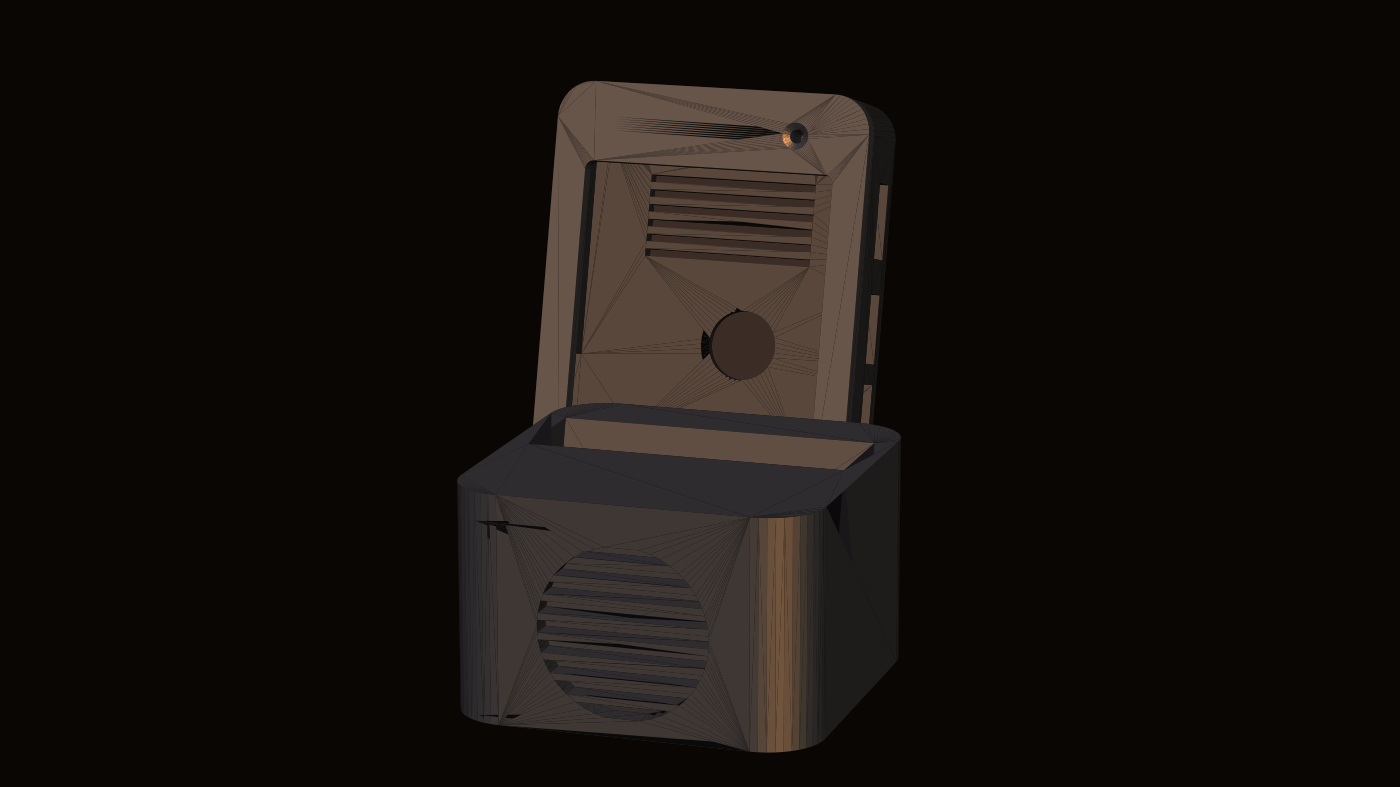
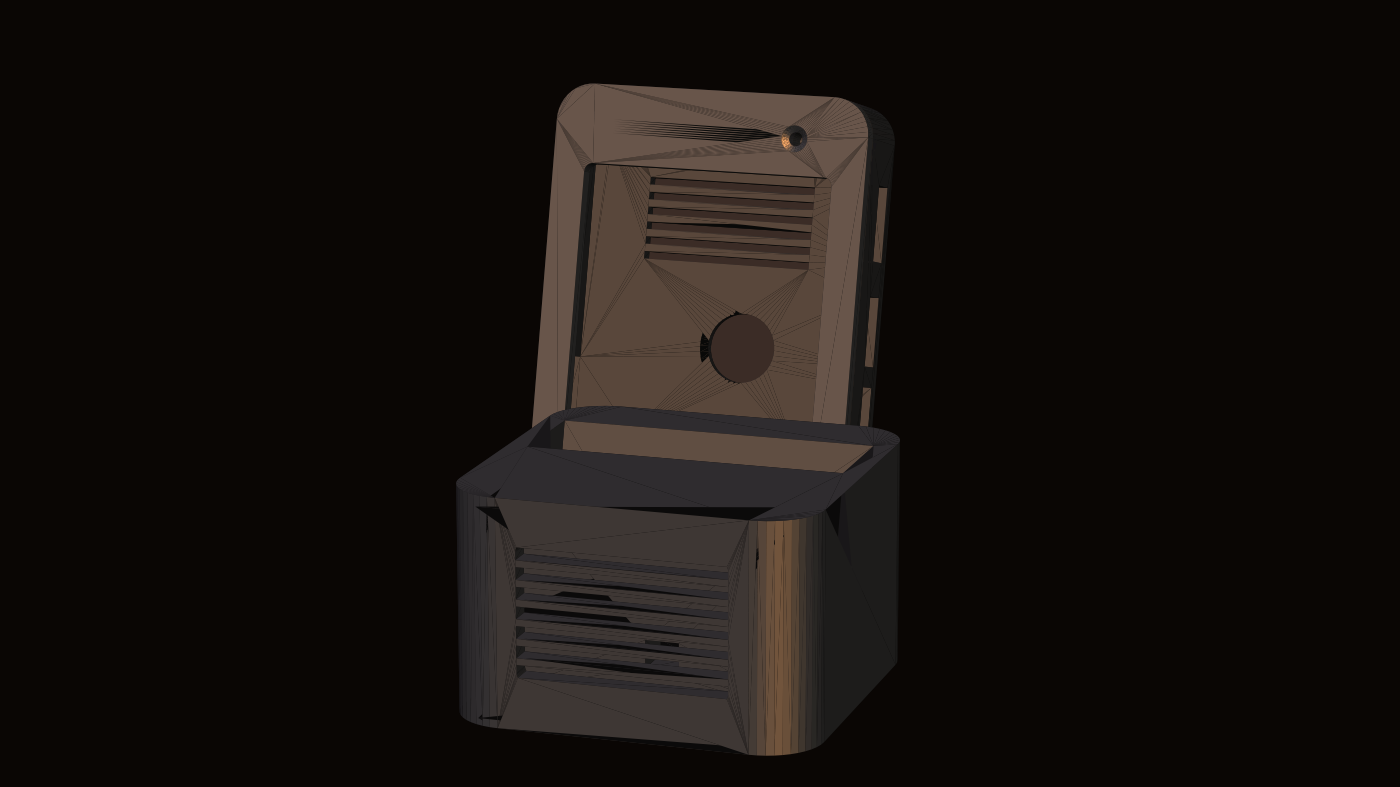
fix(enclosure): the real speaker is a taped 40x27 rectangle, and its wires had no exit
Two corrections from JP looking at the actual hardware. Both invalidate
assumptions the model could not have caught, and one of them was a hole
in the design rather than a wrong dimension.

1. THE DRIVER IS RECTANGULAR AND ADHESIVE-MOUNTED.

Cut for a round ⌀28 flanged driver seated in a ⌀29 x 2.2mm recess. It is
actually a 40 x 27mm rounded rectangle held on with sticky tape, which
inverts two requirements:

- The grille field becomes rectangular. Slots are now clipped to a
  37 x 24 rounded rect (GRILLE_INSET 1.5mm inside the driver outline) so
  the grille never opens onto the frame — an open slot over the flange is
  a dust path into the chamber and vents the enclosure it is meant to
  seal.
- The recess had to GO. Tape needs a flat, continuous surface to bond to,
  and a pocket deep enough to seat a flange leaves the adhesive bridging
  a step, which is where an adhesive bond fails first. The wall face is
  now flat, with only a 0.60 x 1.20mm locating lip around the outline:
  enough to stop the driver sliding while the glue grabs, too shallow to
  interrupt the bonded area.

The chamber ceiling went 34.0 -> 37.0. At 34 the chamber was 30mm tall
and a 27mm driver left 1.5mm a side — no room for anything. At 37 it is
33mm and the sealed volume goes 27.5 -> 30cm3, which helps the low end
rather than hurting it. No conflict with the slab slot: that sits at
y~34 while the chamber ends at 21, and 3mm of wall remains above.

2. THE SEALED CHAMBER HAD NO WIRE EXIT AT ALL.
[…]

diff --git a/docs/index.html b/docs/index.html
@@ -1137,8 +1137,9 @@ footer p{margin:.4rem 0}
               stand below.">
     <figcaption>
       From behind, because that is where the design decisions are. The stand is not a stand
-      with a speaker in it — it <em>is</em> the speaker enclosure, a sealed ~26&nbsp;cm³
-      chamber. The circular window is for an LED that fires backwards into a closed box.
+      with a speaker in it — it <em>is</em> the speaker enclosure, a sealed ~30&nbsp;cm³
+      chamber, and the base is its lid rather than a foot. The circular window is for an LED
+      that fires backwards into a closed box.
     </figcaption>
   </figure>
 
@@ -1153,7 +1154,7 @@ footer p{margin:.4rem 0}
     <div class="linework"><svg xmlns="http://www.w3.org/2000/svg" viewBox="0 0 1200.0 853.4" width="1200" height="853" fill="none" stroke="currentColor" stroke-linecap="round" stroke-linejoin="round" role="img">
 <path id="case-print-g0-vis" d="M33 426L33 768 M30 433L30 776 M33 426L33 425L33 424L33 423L33 422L33 421L33 420L34 419 M34 419L35 414L38 410L42 407L46 404L50 402L55 401L60 400L65 400 M30 433L30 433L30 432L31 431L31 430L31 429L31 428L31 427 M65 798L59 797L53 795L48 793L43 789L39 785L36 779L33 774L33 768 M63 806L57 805L51 803L46 800L41 797L37 792L33 787L31 782L30 776 M65 400L281 417 M65 798L281 815 M281 417L287 418L293 420L298 423L303 426L307 431L310 436L312 441L313 447 M313 790L313 790L313 791L313 792L313 793L313 794L313 795L312 795L312 796 M312 796L310 801L308 805L304 808L300 811L295 813L291 814L286 815L281 815 M313 447L313 790 M81 434L78 438L74 441L69 442L64 442L60 439L56 436L54 432L54 427 M291 451L289 455L285 458L280 459L275 458L271 456L267 453L265 448L265 443 M62 732L62 490 M62 732L62 734L62 735L63 736L64 737L65 738L66 739L68 739L69 739 M69 484L68 484L67 484L66 485L65 485L64 486L63 487L62 488L62 489 M62 489L62 489L62 490 M277 755L69 739 M277 501L69 484 M277 755L278 755L279 755L280 755L281 755L282 754L283 753L284 752L284 751 M284 751L284 751L284 750 M284 508L284 506L284 505L283 504L282 503L281 502L280 501L278 501L277 501 M284 750L284 508 M81 772L78 776L74 779L69 780L64 779L60 777L56 774L54 769L54 764 M260 784L258 788L254 790L250 791L245 791L241 789L238 785L236 781L236 777 M291 789L289 793L285 795L280 796L275 796L271 794L267 790L265 786L265 781 M63 806L279 823 M310 804L308 809L305 813L302 816L298 819L293 821L288 822L284 823L279 823 M67 492L66 492L65 492L64 492L63 493L62 493L62 494 M275 508L67 492 M282 515L282 514L281 513L281 512L280 511L279 510L277 509L276 509L275 508 M282 754L282 515 M85 419L85 420L85 421L84 421L84 422 M84 422L82 426L78 429L73 430L68 429L63 427L60 424L58 419L58 414 M58 414L60 410L64 408L68 406L73 407L77 408L81 411L84 415L85 419 M295 436L295 436L295 437L295 438 M295 438L293 443L288 445L284 446L279 446L274 444L271 440L269 436L269 431 M269 431L271 427L275 424L279 423L284 423L288 425L292 427L294 431L295 436 M85 757L85 757L85 758L85 759L84 759L84 760 M84 760L82 764L78 767L73 768L68 767L63 765L60 762L58 757L58 752 M58 752L60 748L64 746L68 744L73 745L77 746L81 749L84 753L85 757 M264 770L264 770L264 771L264 772 M264 772L261 776L258 779L253 780L249 779L244 777L241 774L239 770L239 765 M239 765L241 762L245 759L249 758L253 758L257 760L261 762L263 766L264 770 M295 774L295 774L295 775L295 776 M295 776L293 781L288 783L284 784L279 784L274 781L271 778L269 774L269 769 M269 769L271 765L275 762L279 761L284 761L288 763L292 765L294 769L295 774 M77 419L77 419L77 420 M77 420L76 422L74 423L72 424L70 423L68 422L66 421L65 419L65 416 M65 416L66 415L68 413L70 413L72 413L74 414L76 415L77 417L77 419 M288 435L288 435L288 436 M288 436L287 438L285 440L283 440L280 440L278 439L277 437L276 435L276 433 M276 433L277 431L279 430L281 429L283 429L285 430L286 431L288 433L288 435 M77 756L77 757L77 758 M77 758L76 760L74 761L72 761L70 761L68 760L66 759L65 757L65 754 M65 754L66 752L68 751L70 751L72 751L74 751L76 753L77 754L77 756 M258 769L258 769L258 770L257 770 M257 770L256 772L254 774L252 774L250 774L248 773L246 771L246 769L246 767 M246 767L247 765L248 764L250 764L252 764L254 764L256 766L257 767L258 769 M288 773L288 773L288 774 M288 774L287 776L285 777L283 778L280 778L278 777L277 775L276 773L276 771 M276 771L277 769L279 768L281 767L283 767L285 768L286 769L288 771L288 773 M33 426L30 433 M33 768L30 776 M65 798L63 806 M281 815L279 823 M69 484L67 492 M277 501L275 508 M284 750L283 752 M284 508L282 515 M31 427L34 419 M310 804L312 796 M58 414L54 427 M84 422L81 434 M269 431L265 443 M295 438L291 451 M58 752L54 764 M84 760L81 772 M239 765L236 777 M264 772L260 784 M269 769L265 781 M295 776L291 789" stroke-width="1.4" vector-effect="non-scaling-stroke"/>
 <path id="case-print-g1-vis" d="M380 436L380 94 M391 398L391 56 M386 369L386 317 M386 369L382 383 M386 317L382 331 M382 383L382 331 M386 304L386 248 M386 248L382 262 M382 318L382 262 M386 304L382 318 M380 436L381 442L383 447L386 453L390 457L395 461L401 463L407 465L413 466 M391 398L392 404L394 410L397 415L401 419L406 423L412 426L417 428L423 429 M381 87L381 88L381 89L380 90L380 91L380 92L380 93L380 94 M413 466L628 483 M628 483L633 483L638 482L643 481L647 479L652 476L655 473L658 469L660 464 M493 452L493 445 M493 423L493 415 M493 415L492 415 M435 411L434 410 M435 418L435 411 M609 432L609 424 M609 424L608 424 M551 420L550 420 M551 456L551 450 M551 427L551 420 M603 113L602 111L601 110L599 109L597 109L596 108L594 108L592 109L591 110 M423 30L418 30L413 31L409 32L404 34L400 37L397 41L394 45L392 49 M392 49L392 50L391 51L391 52L391 53L391 54L391 55L391 56 M423 429L639 445 M423 30L639 47 M639 445L644 445L649 445L654 444L658 441L662 439L666 435L669 431L671 427 M671 427L671 426L671 425L671 424L671 423L671 422L671 421L671 420 M671 78L671 72L669 66L665 61L661 57L656 53L651 50L645 48L639 47 M671 420L671 78 M404 57L404 399 M423 417L420 417L416 416L413 414L410 412L408 409L406 406L404 403L404 399 M639 434L423 417 M658 419L658 419L658 420L658 421L658 422L658 423 M658 423L657 426L655 428L653 430L651 432L648 433L645 434L642 434L639 434 M658 77L658 419 M639 59L643 59L646 60L649 62L652 64L655 67L657 70L658 73L658 77 M639 59L423 42 M404 57L404 56L404 55L404 54L405 53 M405 53L406 50L407 48L409 46L412 44L415 43L417 42L420 42L423 42 M382 331L386 332 M382 262L386 262 M408 73L408 73L407 73L406 74L405 74L404 74 M650 432L650 404 M434 74L619 89 M650 108L649 106L649 105L649 103L648 102L648 100L647 99L646 98L645 97 M650 140L650 108 M650 290L654 290 M650 140L654 140 M650 290L650 274 M650 222L650 196 M650 222L654 223 M495 406L495 423 M495 446L495 452 M495 406L434 401 M495 452L489 452 M434 412L434 401 M611 415L611 432 M611 415L550 410 M558 457L550 456 M550 456L550 450 M550 427L550 410 M598 396L447 384 M598 396L598 390 M447 384L447 379 M598 390L447 379 M598 385L447 373 M598 385L598 379 M447 373L447 367 M598 379L447 367 M598 373L447 362 M598 373L598 368 M447 362L447 356 M598 368L447 356 M598 362L447 350 M598 362L598 357 M447 350L447 345 M598 357L447 345 M598 351L447 339 M598 351L598 345 M447 339L447 334 M598 345L447 334 M598 340L447 328 M598 340L598 334 M447 328L447 322 M598 334L447 322 M404 94L406 98L409 101L413 102L417 103L421 103L425 102L428 99L430 95 M573 261L570 251L564 243L556 237L547 234L536 233L526 236L518 242L513 251 M513 251L513 262L517 272L525 279L535 284L546 285L557 283L566 277L572 268 M572 268L572 267L572 266L572 265L572 264L572 263L572 262L573 261 M598 201L447 189 M598 201L598 195 M447 189L447 184 M598 195L447 184 M598 190L447 178 M598 190L598 184 M447 178L447 172 M598 184L447 172 M598 178L447 167 M598 178L598 173 M447 167L447 161 M598 173L447 161 M598 167L447 155 M598 167L598 162 M447 155L447 150 M598 162L447 150 M598 156L447 144 M598 156L598 150 M447 144L447 139 M598 150L447 139 M598 145L447 133 M598 145L598 139 M598 139L447 127 M447 133L447 127 M605 108L605 106L603 104L601 102L599 102L596 101L594 102L592 104L590 106 M590 106L590 109L591 111L593 113L596 114L599 114L601 114L604 112L605 110 M605 110L605 110L605 109L605 108 M615 104L614 109L616 114L620 117L624 119L629 120L634 119L638 116L641 112 M480 444L576 452 M576 452L569 474 M474 467L569 474 M480 444L474 467 M493 415L494 413 M494 413L494 411 M494 411L495 406 M492 413L494 413 M492 449L491 452 M492 449L492 445 M492 423L492 410 M435 411L436 408 M434 408L436 408 M492 449L490 449 M437 418L437 406 M436 410L437 406 M436 408L436 410 M609 424L610 422 M610 422L610 420 M610 420L611 415 M608 422L610 422 M608 432L608 419 M551 420L552 417 M550 417L552 417 M559 454L553 454 M553 454L552 456 M553 454L553 450 M553 427L553 415 M552 419L553 415 M552 417L552 419 M596 396L598 390 M596 385L598 379 M596 373L598 368 M596 362L598 357 M596 351L598 345 M596 340L598 334 M596 201L598 195 M596 190L598 184 M596 178L598 173 M596 167L598 162 M596 156L598 150 M596 145L598 139 M560 451L558 458 M489 453L558 458 M654 390L650 404 M654 390L654 275 M654 275L650 290 M654 260L650 274 M654 260L654 208 M654 208L650 222 M654 182L650 196 M654 182L654 126 M654 126L650 140 M435 416L434 412L431 408L428 405L424 404L419 403L415 404L411 406L408 410 M434 418L435 418L435 417L435 416 M434 406L437 406 M492 410L494 411 M550 415L553 415 M608 419L610 420 M645 433L644 428L642 424L638 422L634 420L629 420L625 421L621 424L619 428 M619 428L619 428L618 429L618 430L618 431L618 432L618 433 M645 434L645 434L645 433 M435 78L434 74L431 70L427 67L423 66L418 66L414 67L410 69L408 73 M408 73L408 78L410 83L413 86L418 88L423 89L428 88L432 85L434 81 M434 81L434 81L434 80L435 80L435 79L435 78 M571 266L569 256L564 248L556 242L546 238L536 237L527 239L518 245L513 253 M571 270L571 269L571 268L571 267L571 266 M645 95L644 90L642 87L638 84L634 82L629 82L625 83L621 86L619 90 M619 90L619 95L621 99L624 103L629 105L634 105L638 104L643 102L645 98 M645 98L645 97L645 96L645 95 M569 467L574 452 M569 474L569 467 M476 460L569 467 M429 416L429 413L427 411L425 409L422 408L419 408L417 409L414 410L413 413 M413 413L413 413L413 414 M429 418L429 418L429 417 M429 417L429 417L429 416 M492 410L437 406 M608 419L553 415 M640 432L640 429L638 427L636 426L633 425L630 424L627 425L625 427L624 429 M624 429L624 430L624 431L624 432L624 433 M640 434L640 434 M640 434L640 434L640 433L640 432 M429 78L429 75L427 73L425 71L422 70L419 70L417 71L414 72L413 75 M413 75L413 78L414 81L416 83L419 84L422 84L425 84L428 82L429 80 M429 80L429 79L429 78 M640 94L640 92L638 89L636 88L633 87L630 87L627 87L625 89L624 91 M624 91L624 94L625 97L627 99L630 101L633 101L636 100L638 99L640 96 M640 96L640 96L640 95L640 94 M558 462L558 458 M558 462L561 451 M558 462L488 457 M488 457L491 445 M470 421L469 421L468 420L467 420L466 420L465 420L464 420 M586 430L585 430L584 430L583 429L582 429L581 429L580 429L580 430 M380 436L391 398 M380 94L391 56 M413 466L423 429 M628 483L639 445 M656 426L658 419 M650 108L658 77 M632 82L639 59 M416 66L423 42 M392 49L381 87 M671 427L660 464 M617 432L619 428 M430 95L434 81 M404 87L408 73 M641 112L645 98 M615 104L619 90" stroke-width="1.4" vector-effect="non-scaling-stroke"/>
-<path id="case-print-g2-vis" d="M763 412L763 221 M794 307L794 117 M763 412L765 421L768 430L773 438L779 445L787 450L795 454L804 457L814 459 M794 307L795 316L798 325L803 333L810 340L817 346L826 350L834 353L844 354 M765 211L765 212L764 213L764 215L764 216L764 217L764 218L764 220L763 221 M844 77L836 77L828 78L821 80L814 83L808 88L802 93L798 99L795 106 M795 106L795 108L794 109L794 110L794 111L794 113L794 114L794 115L794 117 M814 459L1034 476 M1034 476L1042 476L1050 475L1057 473L1064 470L1071 466L1076 460L1080 454L1083 447 M844 354L1065 372 M844 77L1065 94 M1065 372L1072 372L1080 371L1087 369L1094 365L1101 361L1106 356L1110 349L1113 342 M1113 342L1114 341L1114 340L1114 339L1114 337L1114 336L1115 335L1115 333L1115 332 M1115 142L1114 132L1110 123L1105 115L1099 109L1091 103L1083 99L1074 96L1065 94 M1115 332L1115 142 M1096 233L812 211 M1096 233L1096 151 M1096 151L812 129 M812 211L812 129 M964 383L967 384L970 385L973 385L976 386L979 387L983 388L986 390L989 391 M905 385L989 391 M905 385L909 384L912 383L916 382L919 382L923 382L927 381L930 381L934 381 M934 381L964 383 M996 395L997 395L998 396L999 397L1000 398L1001 399L1002 400L1003 400L1004 401 M885 392L1004 401 M885 392L886 391L888 391L889 390L891 389L892 389L894 388L895 388L897 387 M897 387L996 395 M1008 405L1008 405L1009 406L1009 407L1010 408L1010 409L1011 409L1011 410L1011 411 M872 400L1011 411 M872 400L873 399L874 399L875 398L876 397L877 397L878 396L879 395L880 395 M880 395L1008 405 M1013 414L1013 415L1013 416L1013 417L1014 418L1014 419L1014 420 M865 409L1014 420 M865 409L865 408L866 407L866 406L867 406L867 405L868 404L869 404L869 403 M869 403L1013 414 M1013 423L1013 424L1013 425L1013 426L1013 427L1012 428L1012 429 M862 417L1012 429 M862 417L862 417L862 416L862 415L863 414L863 413L863 412 M863 412L1013 423 M880 446L878 445L877 445L876 444L875 443L874 442L873 441L872 440L871 440 M871 440L991 449 M991 449L989 450L988 450L986 451L985 452L983 452L982 453L980 453L979 454 M880 446L979 454 M912 458L908 457L905 456L902 455L899 455L896 453L893 452L890 451L887 450 M887 450L970 456 M970 456L966 457L963 458L959 458L956 459L952 459L949 460L945 460L941 460 M912 458L941 460 M862 427L862 426L862 425L862 424L862 423L862 422L862 421L861 421 M861 421L1010 432 M1010 432L1010 433L1009 434L1008 435L1008 436L1007 436L1007 437L1006 438 M862 427L1006 438 M868 436L867 435L866 434L865 433L865 432L864 431L864 430 M864 430L1003 441 M1003 441L1002 441L1001 442L1000 443L999 444L998 444L998 445L997 445L996 446 M868 436L996 446 M1080 232L1096 151 M1012 429L1012 423 M880 446L880 440 M979 454L979 448 M912 458L912 452 M941 460L941 454 M862 427L862 421 M1006 438L1006 432 M868 436L868 430 M996 446L996 440 M763 412L794 307 M763 221L794 117 M814 459L844 354 M1034 476L1065 372 M795 106L765 211 M1113 342L1083 447" stroke-width="1.4" vector-effect="non-scaling-stroke"/>
+<path id="case-print-g2-vis" d="M763 412L763 221 M794 307L794 117 M763 412L765 421L768 430L773 438L779 445L787 450L795 454L804 457L814 459 M794 307L795 316L798 325L803 333L810 340L817 346L826 350L834 353L844 354 M765 211L765 212L764 213L764 215L764 216L764 217L764 218L764 220L763 221 M844 77L836 77L828 78L821 80L814 83L808 88L802 93L798 99L795 106 M795 106L795 108L794 109L794 110L794 111L794 113L794 114L794 115L794 117 M814 459L1034 476 M1034 476L1042 476L1050 475L1057 473L1064 470L1071 466L1076 460L1080 454L1083 447 M844 354L1065 372 M844 77L1065 94 M1065 372L1072 372L1080 371L1087 369L1094 365L1101 361L1106 356L1110 349L1113 342 M1113 342L1114 341L1114 340L1114 339L1114 337L1114 336L1115 335L1115 333L1115 332 M1115 142L1114 132L1110 123L1105 115L1099 109L1091 103L1083 99L1074 96L1065 94 M1115 332L1115 142 M1096 233L812 211 M1096 233L1096 151 M1096 151L812 129 M812 211L812 129 M853 383L855 379 M856 377L856 377L856 378L855 378L855 379 M856 377L1040 392 M1040 394L1040 394L1040 393 M1040 393L1040 393L1040 392 M1039 397L1040 394 M853 383L1039 397 M851 392L853 386 M853 386L1038 401 M1037 406L1038 401 M851 392L1037 406 M848 401L850 395 M850 395L1036 409 M1034 415L1036 409 M848 401L1034 415 M846 410L847 404 M847 404L1033 418 M1031 424L1033 418 M846 410L1031 424 M843 418L845 413 M845 413L1031 427 M1029 433L1031 427 M843 418L1029 433 M841 427L842 422 M842 422L1028 436 M1026 442L1028 436 M841 427L1026 442 M839 434L840 430 M840 430L1025 445 M1024 449L1025 445 M1023 451L1023 450L1024 450L1024 449 M839 436L1023 451 M839 434L839 434L839 435 M839 435L839 435L839 436 M1080 232L1096 151 M1039 397L1039 391 M1037 406L1037 400 M1034 415L1034 409 M1031 424L1031 418 M1029 433L1029 427 M1026 442L1026 436 M1023 445L1023 451 M839 432L839 436 M763 412L794 307 M763 221L794 117 M814 459L844 354 M1034 476L1065 372 M1040 394L1040 393 M1024 449L1024 445 M795 106L765 211 M1113 342L1083 447" stroke-width="1.4" vector-effect="non-scaling-stroke"/>
 <path id="case-print-g3-vis" d="M790 117L793 107 M793 107L793 36 M790 46L793 36 M790 117L790 46 M1058 138L1061 128 M1061 128L1061 57 M790 117L1058 138 M793 107L1061 128 M793 36L1061 57" stroke-width="1.4" vector-effect="non-scaling-stroke"/>
 <path id="case-print-g4-vis" d="M1170 164L1167 151L1159 140L1148 132L1136 128L1122 127L1110 130L1099 138L1092 150 M1092 150L1092 164L1098 177L1108 187L1121 193L1135 195L1149 192L1161 184L1168 172 M1168 172L1169 171L1169 170L1169 169L1169 168L1169 167L1169 166L1170 165L1170 164 M1092 152L1091 166L1097 179L1108 189L1120 195L1135 197L1149 194L1161 186L1168 174 M1168 174L1168 172 M1092 152L1092 150" stroke-width="1.4" vector-effect="non-scaling-stroke"/>
 </svg></div>
@@ -1192,6 +1193,26 @@ footer p{margin:.4rem 0}
     </tbody>
   </table>
   </div>
+
+  <p>
+    Two things about the speaker are worth knowing before you print, because both came from
+    JP looking at the actual hardware rather than from the model. The driver is a
+    <b>40 × 27&nbsp;mm rectangle held on with adhesive tape</b>, not a round flanged unit — so
+    the grille field is rectangular and there is <em>no recess</em>. Tape needs a flat,
+    continuous surface to bond to; a pocket deep enough to seat a flange leaves the adhesive
+    bridging a step, which is where the bond fails first. All that remains is a
+    0.60&nbsp;mm locating lip around the outline, deep enough to stop it sliding while the
+    glue grabs.
+  </p>
+
+  <p>
+    And the sealed chamber had <b>no way out for the driver's own wires</b> — its only opening
+    was the bottom, closed by the base plate, which is correct for a sealed box and useless for
+    a wired one. There is now a 6 × 5&nbsp;mm pass-through into the board's cable route.
+    <b>Seal it after wiring</b>: an unsealed hole turns the sealed box into a leaky one and
+    costs exactly the low end the chamber exists to produce. It is sized for a bead of sealant
+    rather than a press fit, because a hole tight enough to grip a wire abrades its insulation.
+  </p>
 
   <p>
     Fasteners: <b>4 × M3×14 countersunk self-tappers, driven from the back</b>, so there are no

diff --git a/docs/print-sheet.html b/docs/print-sheet.html
@@ -156,16 +156,40 @@ cd scratch/hosyond-s3/ember-case &amp;&amp; ../cadenv/bin/python ember_case.py
 <p>to be <b>airtight, not structural</b>.</p>
 <hr>
 <h2>Speaker</h2>
-<p>Designed around a <b>⌀28 mm driver</b> (8 Ω; the board's amp does 1.5 W/8 Ω or 2 W/4 Ω).</p>
-<p>Sealed chamber ≈ <b>26 cm³</b> in the stand, firing forward through the ⌀30 mm round grille.</p>
+<p>Cut for a <b>rectangular 40 × 27 mm driver with rounded corners</b>, adhesive-mounted</p>
+<p>(8 Ω; the board's amp does 1.5 W/8 Ω or 2 W/4 Ω). Sealed chamber ≈ <b>30 cm³</b> in the</p>
+<p>stand, firing forward through a <b>37 × 24 mm slotted grille</b>.</p>
+<div class="note"><b>Revised from a ⌀28 mm round driver.</b> The first cut assumed a round, flanged</div>
+<div class="note">driver seated in a ⌀29 × 2.2 mm recess. JP's actual speaker is a 40 × 27 rectangle</div>
+<div class="note">held on with <b>adhesive tape</b>, which inverts two requirements: the grille field had</div>
+<div class="note">to become rectangular, and the recess had to go. Tape needs a **flat, continuous</div>
+<div class="note">surface** to bond to — a pocket deep enough to seat a flange leaves the adhesive</div>
+<div class="note">bridging a step, which is where the bond fails first.</div>
 <ul>
-<li>The driver seats against the <b>inside</b> of the front wall in a ⌀29 × 2.2 mm recess.</li>
-<li>Wires exit through the cable channel and up into the slab's slot.</li>
-<li>The ES3C28P <b>speaker header is unpopulated</b> — you need a 1.25 mm 2P pigtail.</li>
-<li>Changing driver: edit <code>DRIVER_D</code>, <code>GRILLE_FIELD</code>, <code>dz</code> in <code>ember_case.py</code> and re-run.</li>
+<li>The front wall's inner face is <b>flat</b> where the speaker lands. Only a **0.60 mm</li>
 </ul>
-<p>  A ⌀40 driver fits the chamber footprint; you'd raise <code>GRILLE_FIELD</code> to ~42 and widen the</p>
-<p>  stand's front wall clearances.</p>
+<p>  deep, 1.20 mm wide locating lip** is cut around the driver's outline: enough to stop</p>
+<p>  it sliding while the adhesive grabs, too shallow to interrupt the bonded area.</p>
+<ul>
+<li>Chamber ceiling was raised <b>34 → 37 mm</b> for the taller driver. At 34 the chamber was</li>
+</ul>
+<p>  30 mm tall and a 27 mm driver left 1.5 mm a side. The sealed volume went 27.5 → 30 cm³,</p>
+<p>  which helps the low end.</p>
+<ul>
+<li><b>Wire pass-through: a 6 × 5 mm channel</b> from inside the chamber (y=19) back to y=30,</li>
+</ul>
+<p>  meeting the board's cable route. From there the wire follows the same path up to the</p>
+<p>  slot. ⚠ <b>Seal it after wiring</b> — silicone, hot glue or putty. An unsealed hole turns</p>
+<p>  the sealed box into a leaky one and costs exactly the low end the chamber exists to</p>
+<p>  produce. It is sized for a bead of sealant rather than a press fit, because a hole</p>
+<p>  tight enough to grip the wire abrades the insulation.</p>
+<ul>
+<li>The ES3C28P <b>speaker header is unpopulated</b> — you need a 1.25 mm 2P pigtail.</li>
+<li>Changing driver: edit <code>DRIVER_W</code>, <code>DRIVER_H</code>, <code>DRIVER_R</code> in <code>ember_case.py</code> and re-run.</li>
+</ul>
+<p>  <code>GRILLE_INSET</code> (1.5 mm) keeps the slots inside the radiating area so the grille never</p>
+<p>  opens onto the frame — an open slot over the flange is a dust path into the chamber and</p>
+<p>  vents the enclosure.</p>
 <p>⚠ <b>Keep the driver magnet away from the top 8 mm of the board's back face</b> —</p>
 <p><code>ANT = (17.57, 32.21, 80.04, 85.70)</code> is the PCB Wi-Fi antenna. The stand geometry already</p>
 <p>puts the magnet ~70 mm away, so this only matters if you relocate the speaker into the slab.</p>

diff --git a/site/index.src.html b/site/index.src.html
@@ -959,8 +959,9 @@ footer p{margin:.4rem 0}
               stand below.">
     <figcaption>
       From behind, because that is where the design decisions are. The stand is not a stand
-      with a speaker in it — it <em>is</em> the speaker enclosure, a sealed ~26&nbsp;cm³
-      chamber. The circular window is for an LED that fires backwards into a closed box.
+      with a speaker in it — it <em>is</em> the speaker enclosure, a sealed ~30&nbsp;cm³
+      chamber, and the base is its lid rather than a foot. The circular window is for an LED
+      that fires backwards into a closed box.
     </figcaption>
   </figure>
 
@@ -1008,6 +1009,26 @@ footer p{margin:.4rem 0}
     </tbody>
   </table>
   </div>
+
+  <p>
+    Two things about the speaker are worth knowing before you print, because both came from
+    JP looking at the actual hardware rather than from the model. The driver is a
+    <b>40 × 27&nbsp;mm rectangle held on with adhesive tape</b>, not a round flanged unit — so
+    the grille field is rectangular and there is <em>no recess</em>. Tape needs a flat,
+    continuous surface to bond to; a pocket deep enough to seat a flange leaves the adhesive
+    bridging a step, which is where the bond fails first. All that remains is a
+    0.60&nbsp;mm locating lip around the outline, deep enough to stop it sliding while the
+    glue grabs.
+  </p>
+
+  <p>
+    And the sealed chamber had <b>no way out for the driver's own wires</b> — its only opening
+    was the bottom, closed by the base plate, which is correct for a sealed box and useless for
+    a wired one. There is now a 6 × 5&nbsp;mm pass-through into the board's cable route.
+    <b>Seal it after wiring</b>: an unsealed hole turns the sealed box into a leaky one and
+    costs exactly the low end the chamber exists to produce. It is sized for a bead of sealant
+    rather than a press fit, because a hole tight enough to grip a wire abrades its insulation.
+  </p>
 
   <p>
     Fasteners: <b>4 × M3×14 countersunk self-tappers, driven from the back</b>, so there are no

diff --git a/enclosure/ember_case.py b/enclosure/ember_case.py
@@ -81,6 +81,16 @@ def rbox(x0,x1,y0,y1,z0,z1,r):
     sk = RectangleRounded(x1-x0, y1-y0, r)
     return Pos((x0+x1)/2,(y0+y1)/2,z0) * extrude(sk, z1-z0)
 
+def rrect_y(cx, cz, w, h, r, y0, depth):
+    """Rounded rectangle in the XZ plane, extruded along +Y.
+
+    Same trick as the Cylinder seat it replaces: build the profile in XY, extrude in
+    +Z, then Rot(-90,0,0) maps +Z onto +Y so the prism drives through the front wall.
+    """
+    sk = RectangleRounded(w, h, r)
+    return Pos(cx, y0, cz) * (Rot(-90,0,0) * extrude(sk, depth))
+
+
 def cyl(x,y,z0,z1,d):
     return Pos(x,y,z0) * Cylinder(d/2, z1-z0,
                                   align=(Align.CENTER,Align.CENTER,Align.MIN))
@@ -171,13 +181,32 @@ TILT     = 15.0                    # degrees back from vertical, seated viewer
 SLOT_CLR = 0.40
 ST_W, ST_D, ST_H = 64.0, 64.0, 40.0
 ST_WALL  = 4.0
-DRIVER_D = 28.0                    # target driver; change and re-run
+# DRIVER — JP's actual speaker is a RECTANGLE with rounded corners, 40 x 27 mm,
+# not the round 28mm driver this was first cut for. Rectangular drivers are the norm
+# in this size class (phone/tablet speakers), so this is the likely case rather than
+# the exception, and both the seat and the grille field derive from these numbers.
+DRIVER_W = 40.0                    # across the front wall (X)
+DRIVER_H = 27.0                    # up the front wall (Z)
+DRIVER_R = 3.0                     # corner radius of the driver body
+DRIVER_CLR = 0.60                  # locating clearance per side, print tolerance
+# MOUNTING: JP's speaker is held on with ADHESIVE TAPE, not a flange in a pocket.
+# That inverts the requirement. A 2.2mm recessed seat was right for a flanged driver
+# and is wrong here for two reasons: tape needs a FLAT, continuous surface to bond to,
+# and a pocket deep enough to seat a flange leaves the tape bridging a step — which is
+# where an adhesive bond fails first. So the wall face stays flat and only a shallow
+# LOCATING LIP is cut: deep enough to stop the speaker sliding while the adhesive
+# grabs, too shallow to interrupt the bonded area.
+LIP_DEPTH  = 0.60                  # alignment only; the tape does the work
+LIP_WIDTH  = 1.20                  # the groove is a thin outline, not a pocket
 SLOT_CY  = 34.0                    # slot centreline Y at the floor
 SLOT_FLOOR = 10.0
 # --- grille: replace this block with lyra's motif; it is a pure parameter set
 GRILLE_SLOT_W = 2.20
 GRILLE_PITCH  = 3.40
-GRILLE_FIELD  = 30.0               # slots are clipped to this circle
+# Slots are clipped to the driver's RADIATING AREA, inset 1.5mm from its outline so
+# the grille never opens onto the frame — an open slot over the flange is a dust path
+# into the chamber and vents the enclosure it is meant to seal.
+GRILLE_INSET  = 1.5
 
 def desk_stand():
     # Deliberately NOT chamfered.  A first attempt shaved the top-front at 38deg;
@@ -192,17 +221,33 @@ def desk_stand():
     # sealed speaker chamber, open at the bottom (closed by the base plate)
     cx0,cx1 = ST_WALL+1, ST_W-ST_WALL-1
     cy0,cy1 = ST_WALL,   21.0
-    p -= bx(cx0,cx1, cy0,cy1, ST_WALL, 34.0)   # ceiling = 17mm bridge, no supports
+    # Ceiling raised 34.0 -> 37.0 for the rectangular driver. At 34 the chamber was
+    # 30mm tall and a 27mm driver left 1.5mm a side — no room for a seat lip. At 37 it
+    # is 33mm tall, the seat clears by ~2.5mm, and the sealed volume goes 27.5 -> 30cm3,
+    # which helps the low end rather than hurting it. Still 3mm of wall above (ST_H=40),
+    # and no conflict with the slab slot: that sits at y~34 while the chamber ends at 21.
+    p -= bx(cx0,cx1, cy0,cy1, ST_WALL, 37.0)   # ceiling = 17mm bridge, no supports
     p -= bx(cx0,cx1, cy0,cy1, -1.0, ST_WALL)          # bottom access
     # driver seat on the INSIDE of the front wall + grille through it
-    dz = 18.0
-    seat = Pos(ST_W/2, cy0+0.01, dz) * (Rot(-90,0,0) *
-            Cylinder((DRIVER_D+1.0)/2, 2.2, align=(Align.CENTER,Align.CENTER,Align.MIN)))
-    p -= seat
-    field = Pos(ST_W/2, -1, dz) * (Rot(-90,0,0) *
-            Cylinder(GRILLE_FIELD/2, ST_WALL+3, align=(Align.CENTER,Align.CENTER,Align.MIN)))
+    # Centred in the taller chamber: (ST_WALL + 37.0) / 2
+    dz = 20.5
+    # Locating lip: the outline of the driver as a thin shallow groove, so the wall
+    # inside it stays flat and unbroken for the tape. outer - inner = a ring.
+    lip_o = rrect_y(ST_W/2, dz,
+                    DRIVER_W + 2*DRIVER_CLR, DRIVER_H + 2*DRIVER_CLR,
+                    DRIVER_R + DRIVER_CLR, cy0 + 0.01, LIP_DEPTH)
+    lip_i = rrect_y(ST_W/2, dz,
+                    DRIVER_W + 2*DRIVER_CLR - 2*LIP_WIDTH,
+                    DRIVER_H + 2*DRIVER_CLR - 2*LIP_WIDTH,
+                    max(DRIVER_R + DRIVER_CLR - LIP_WIDTH, 0.6),
+                    cy0 - 0.5, LIP_DEPTH + 1.0)
+    p -= (lip_o - lip_i)
+    field = rrect_y(ST_W/2, dz,
+                    DRIVER_W - 2*GRILLE_INSET, DRIVER_H - 2*GRILLE_INSET,
+                    max(DRIVER_R - GRILLE_INSET, 0.8),
+                    -1.0, ST_WALL + 3)
     bars = None
-    n = int(GRILLE_FIELD/GRILLE_PITCH)+2
+    n = int(DRIVER_H/GRILLE_PITCH)+2
     for i in range(-n,n+1):
         z = dz + i*GRILLE_PITCH
         b = bx(0, ST_W, -2, ST_WALL+2, z-GRILLE_SLOT_W/2, z+GRILLE_SLOT_W/2)
@@ -210,6 +255,22 @@ def desk_stand():
     p -= (field & bars)
     # cable route: slot floor -> out the back
     p -= bx(ST_W/2-8, ST_W/2+8, 29.0, ST_D+1, ST_WALL, 13.0)
+    # SPEAKER WIRE PASS-THROUGH. Caught by JP: the chamber had no exit at all. Its only
+    # opening was the bottom, closed by the base plate — which is correct for a SEALED
+    # enclosure and leaves the driver's own wires with nowhere to go. The board's
+    # speaker header is on a long edge, so the wire has to reach the slab slot.
+    #
+    # This channel runs from inside the chamber (y=19, chamber ends at 21) rearward to
+    # y=30, meeting the board cable route that starts at 29. From there the wire follows
+    # the same path up to the slot. 6 x 5mm: enough for a 2-core lead, small enough to
+    # seal.
+    #
+    # >>> IT MUST BE SEALED AFTER WIRING — a dab of silicone, hot glue or putty. <<<
+    # An unsealed hole turns the sealed box into a leaky one and costs exactly the low
+    # end the chamber exists to produce. Sizing it for a bead of sealant rather than
+    # trying to make it wire-tight is deliberate: a press-fit hole that has to be forced
+    # abrades the insulation.
+    p -= bx(ST_W/2-3, ST_W/2+3, 19.0, 30.0, 6.0, 11.0)
     return p
 
 def stand_base():

diff --git a/enclosure/PRINT-SHEET.md b/enclosure/PRINT-SHEET.md
@@ -73,15 +73,34 @@ to be **airtight, not structural**.
 
 ## Speaker
 
-Designed around a **⌀28 mm driver** (8 Ω; the board's amp does 1.5 W/8 Ω or 2 W/4 Ω).
-Sealed chamber ≈ **26 cm³** in the stand, firing forward through the ⌀30 mm round grille.
+Cut for a **rectangular 40 × 27 mm driver with rounded corners**, adhesive-mounted
+(8 Ω; the board's amp does 1.5 W/8 Ω or 2 W/4 Ω). Sealed chamber ≈ **30 cm³** in the
+stand, firing forward through a **37 × 24 mm slotted grille**.
 
-- The driver seats against the **inside** of the front wall in a ⌀29 × 2.2 mm recess.
-- Wires exit through the cable channel and up into the slab's slot.
+> **Revised from a ⌀28 mm round driver.** The first cut assumed a round, flanged
+> driver seated in a ⌀29 × 2.2 mm recess. JP's actual speaker is a 40 × 27 rectangle
+> held on with **adhesive tape**, which inverts two requirements: the grille field had
+> to become rectangular, and the recess had to go. Tape needs a **flat, continuous
+> surface** to bond to — a pocket deep enough to seat a flange leaves the adhesive
+> bridging a step, which is where the bond fails first.
+
+- The front wall's inner face is **flat** where the speaker lands. Only a **0.60 mm
+  deep, 1.20 mm wide locating lip** is cut around the driver's outline: enough to stop
+  it sliding while the adhesive grabs, too shallow to interrupt the bonded area.
+- Chamber ceiling was raised **34 → 37 mm** for the taller driver. At 34 the chamber was
+  30 mm tall and a 27 mm driver left 1.5 mm a side. The sealed volume went 27.5 → 30 cm³,
+  which helps the low end.
+- **Wire pass-through: a 6 × 5 mm channel** from inside the chamber (y=19) back to y=30,
+  meeting the board's cable route. From there the wire follows the same path up to the
+  slot. ⚠ **Seal it after wiring** — silicone, hot glue or putty. An unsealed hole turns
+  the sealed box into a leaky one and costs exactly the low end the chamber exists to
+  produce. It is sized for a bead of sealant rather than a press fit, because a hole
+  tight enough to grip the wire abrades the insulation.
 - The ES3C28P **speaker header is unpopulated** — you need a 1.25 mm 2P pigtail.
-- Changing driver: edit `DRIVER_D`, `GRILLE_FIELD`, `dz` in `ember_case.py` and re-run.
-  A ⌀40 driver fits the chamber footprint; you'd raise `GRILLE_FIELD` to ~42 and widen the
-  stand's front wall clearances.
+- Changing driver: edit `DRIVER_W`, `DRIVER_H`, `DRIVER_R` in `ember_case.py` and re-run.
+  `GRILLE_INSET` (1.5 mm) keeps the slots inside the radiating area so the grille never
+  opens onto the frame — an open slot over the flange is a dust path into the chamber and
+  vents the enclosure.
 
 ⚠ **Keep the driver magnet away from the top 8 mm of the board's back face** —
 `ANT = (17.57, 32.21, 80.04, 85.70)` is the PCB Wi-Fi antenna. The stand geometry already
